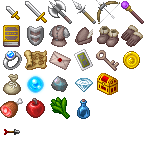
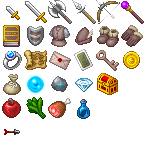
Update item image.

diff --git a/src/character/item.js b/src/character/item.js
@@ -81,7 +81,7 @@ phina.define("qft.Item", {
                     this.kind = ITEM_KEY;
                     break;
                 case "food":
-                    this.kind = ITEM_MEAT + this.level;
+                    this.kind = ITEM_APPLE + this.level;
                     break;
                 default:
                     this.kind = 0;
@@ -372,14 +372,6 @@ phina.define("qft.ItemInfo", {
                         isItem: true,
                         point: 10000,
                     };
-                case "meat":
-                case ITEM_MEAT:
-                    return {
-                        name: "MEAT",
-                        type: "food",
-                        isFood: true,
-                        power: 30,
-                    };
                 case "apple":
                 case ITEM_APPLE:
                     return {
@@ -394,7 +386,15 @@ phina.define("qft.ItemInfo", {
                         name: "HARB",
                         type: "food",
                         isFood: true,
-                        power: 50,
+                        power: 40,
+                    };
+                case "meat":
+                case ITEM_MEAT:
+                    return {
+                        name: "MEAT",
+                        type: "food",
+                        isFood: true,
+                        power: 70,
                     };
                 case "potion":
                 case ITEM_POTION:

diff --git a/src/main.js b/src/main.js
@@ -41,9 +41,9 @@ ITEM_ORB = 19;
 ITEM_STONE = 20;
 ITEM_JEWEL = 21;
 ITEM_JEWELBOX = 22;
-ITEM_MEAT = 24;
-ITEM_APPLE = 25;
-ITEM_HARB = 26;
+ITEM_APPLE = 24;
+ITEM_HARB = 25;
+ITEM_MEAT = 26;
 ITEM_POTION = 27;
 
 //インスタンス
